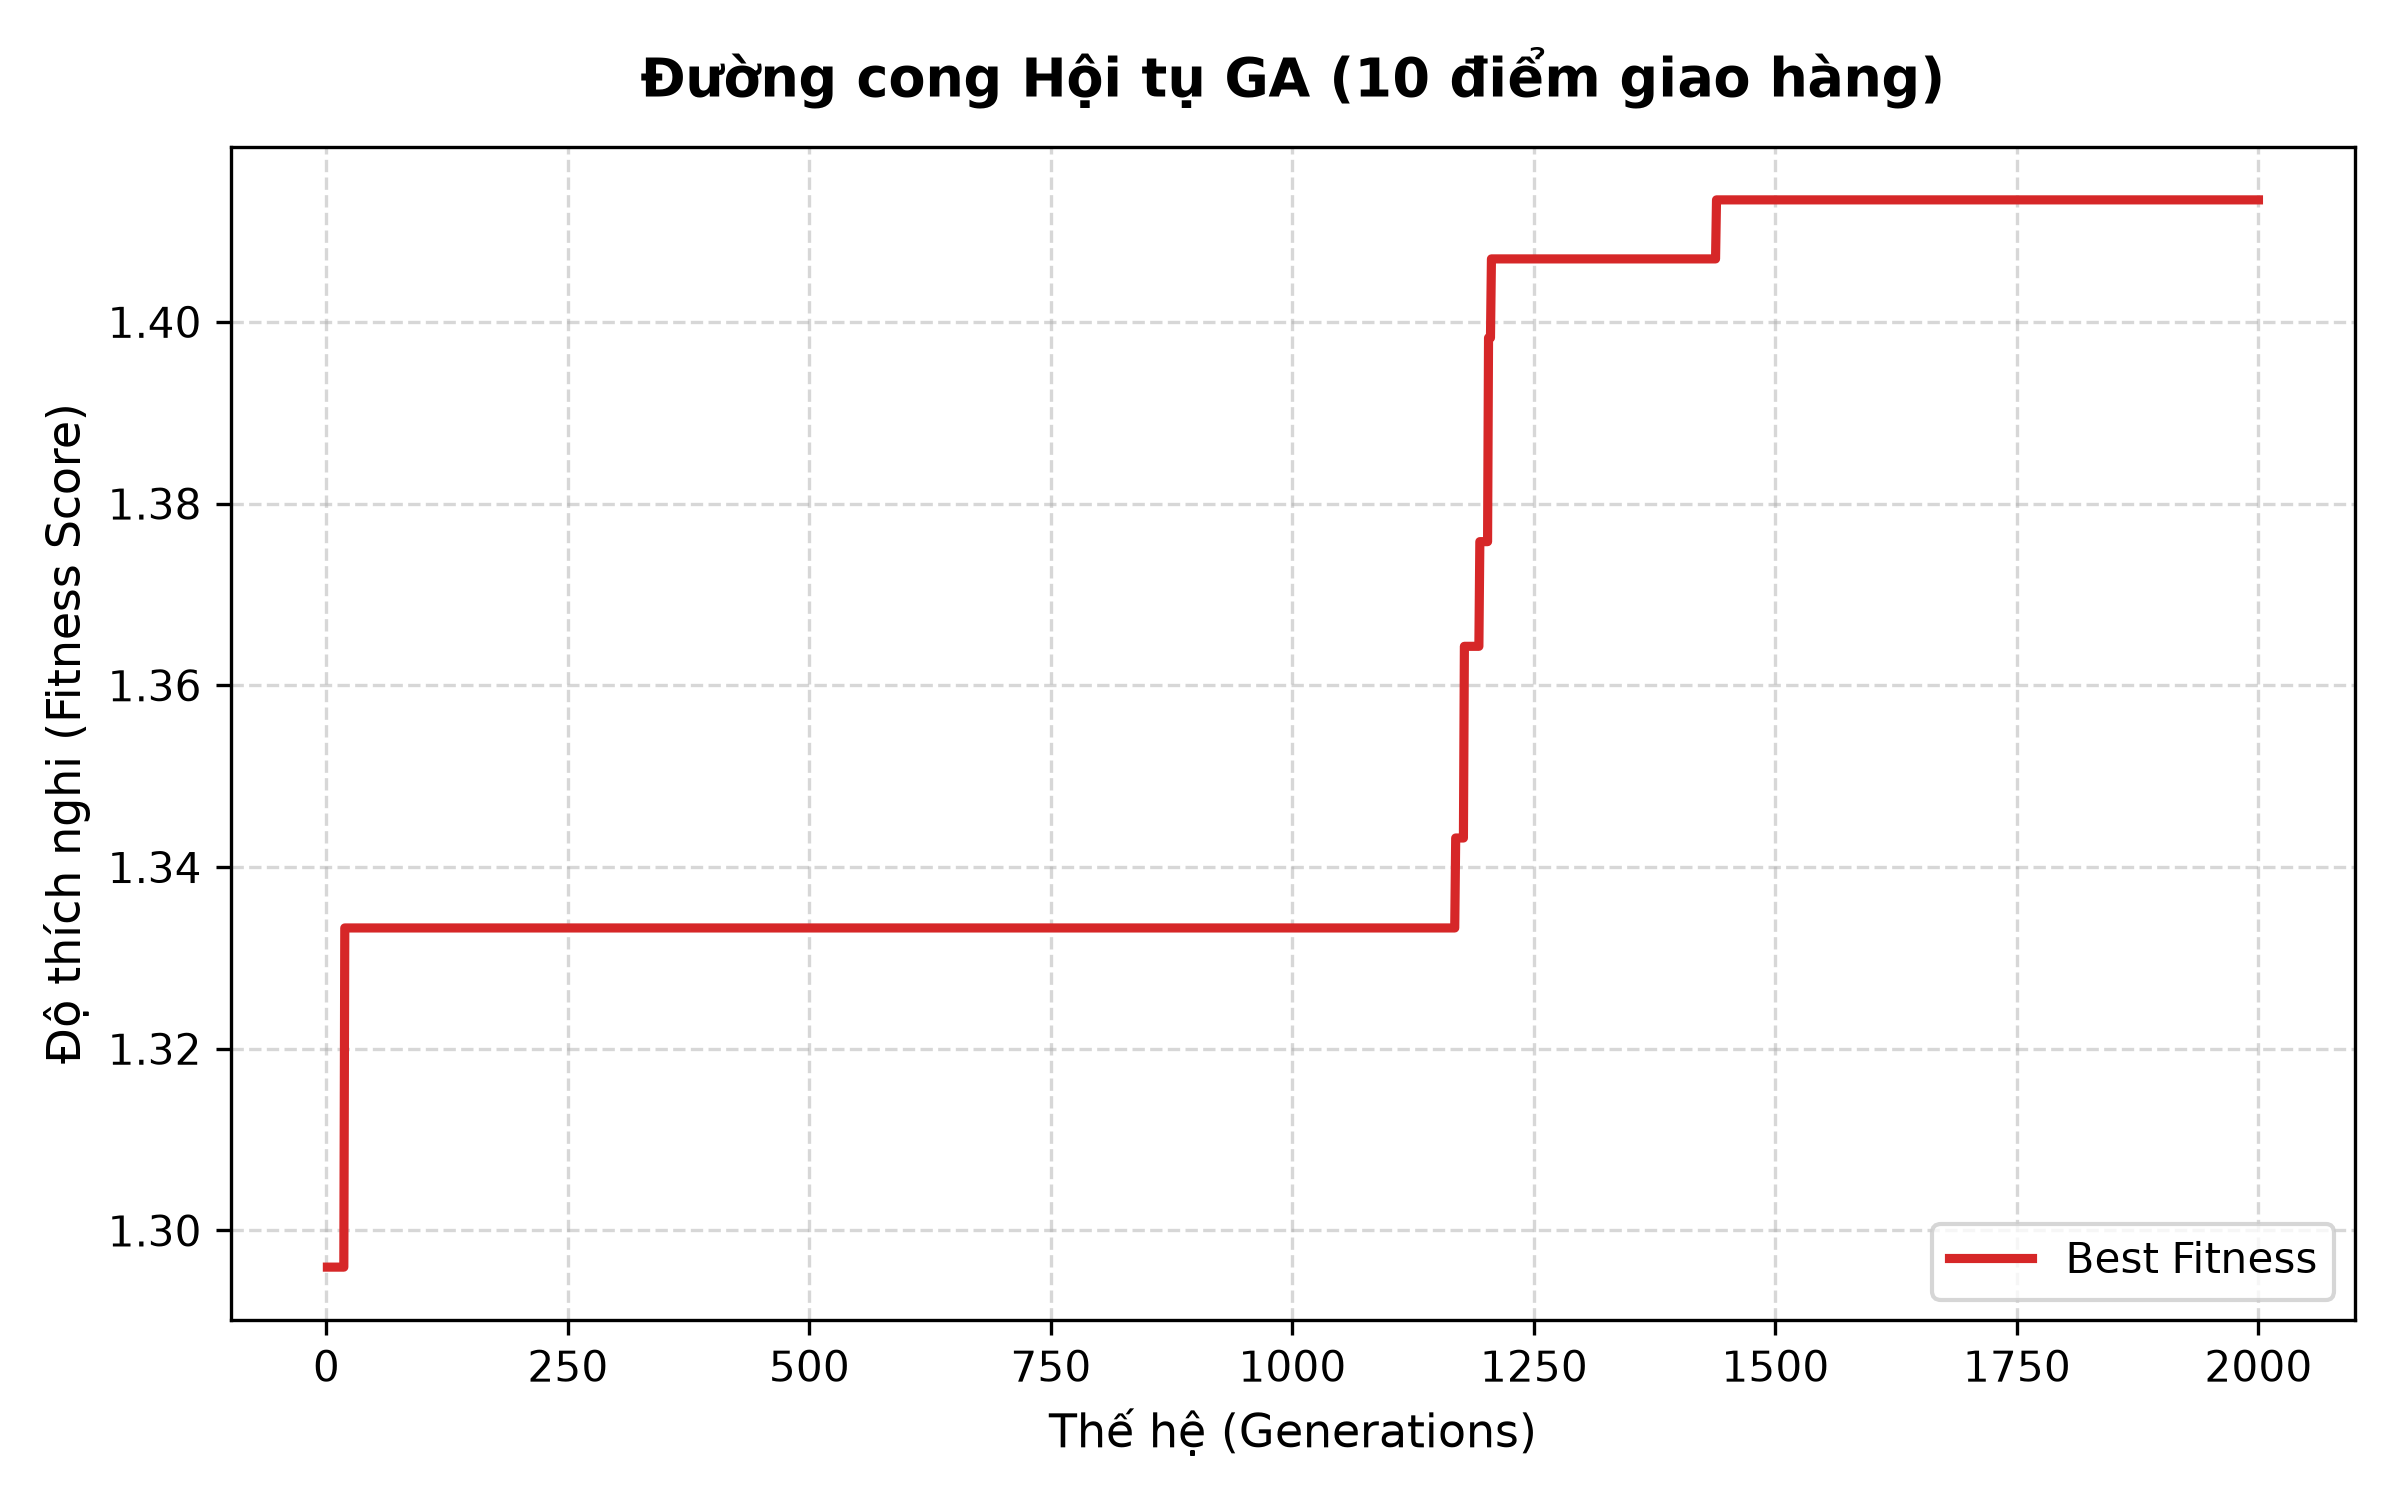
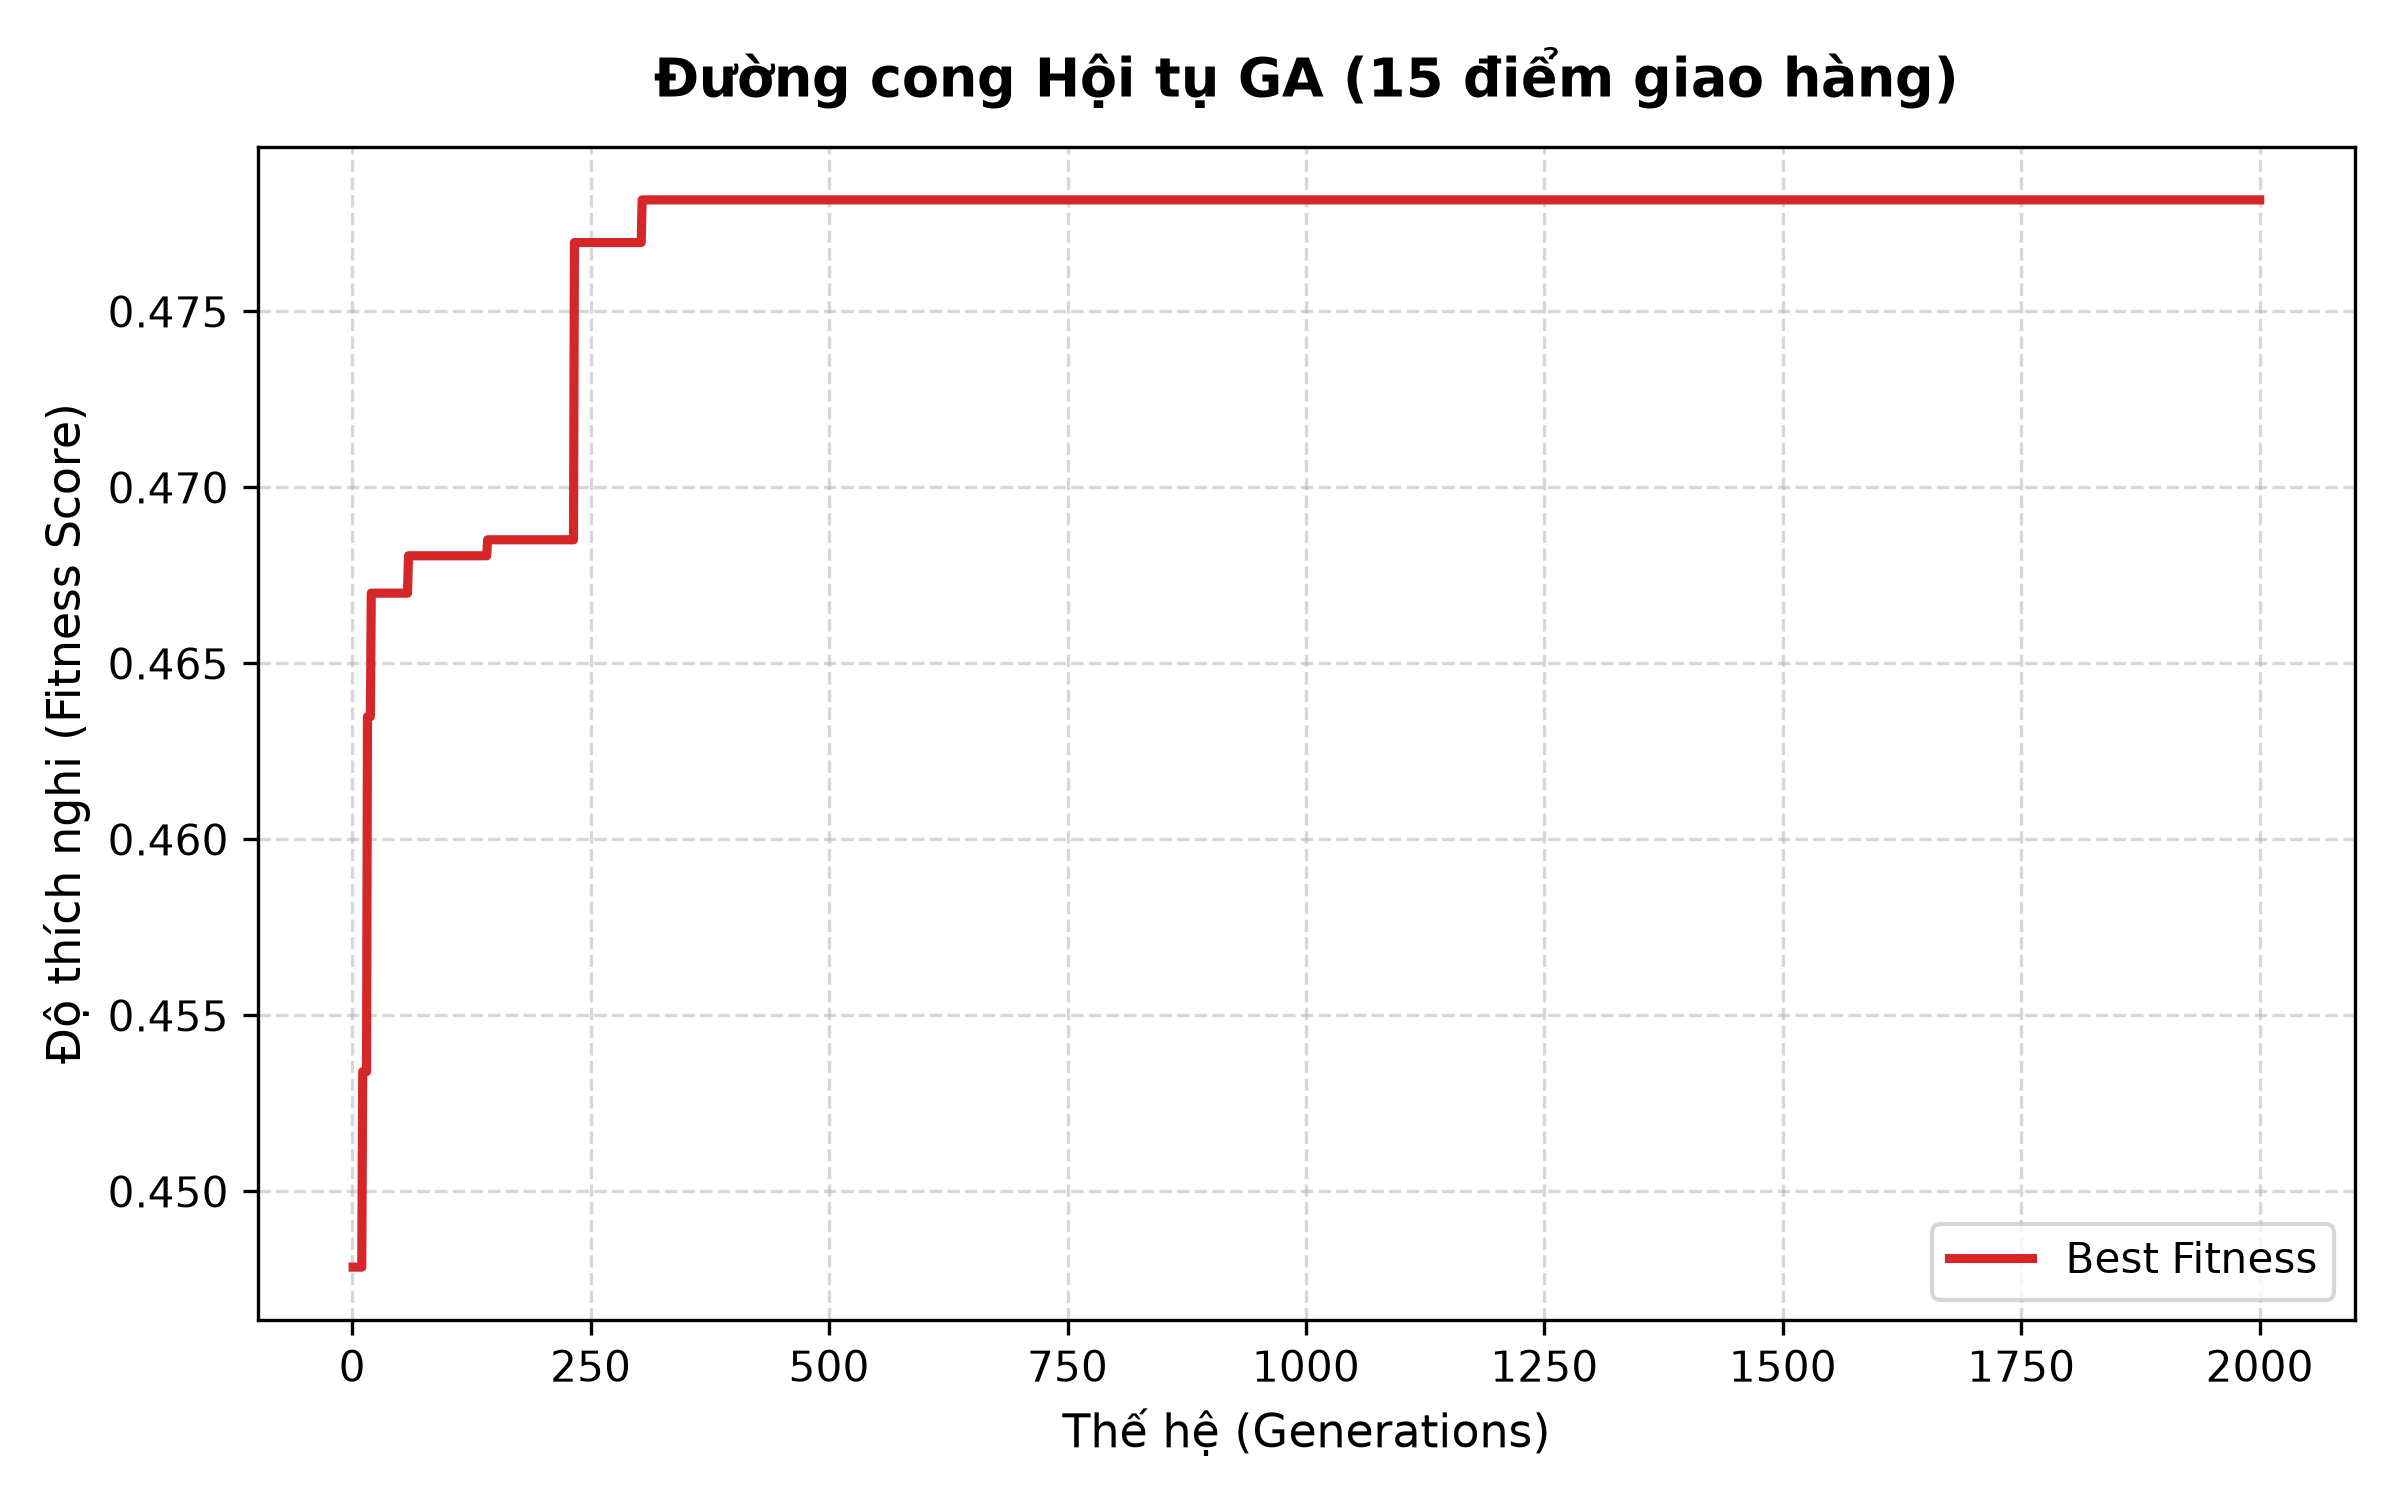
Optimise Energy Manager

diff --git a/src/algorithms/energy_manager.py b/src/algorithms/energy_manager.py
@@ -79,10 +79,11 @@ class EnergyManager:
         self,
         route: List[int],
         dist_matrix: Any,
-        nodes: Dict[int, Dict[str, Any]]
+        nodes: Dict[int, Dict[str, Any]],
+        detailed: bool = False
     ) -> Tuple[float, bool, List[Dict[str, Any]]]:
         """
-        Tính tổng năng lượng tiêu thụ và trả về chi tiết từng chặng bay để làm báo cáo thực nghiệm.
+        Tính tổng năng lượng tiêu thụ; chỉ trả chi tiết từng chặng khi detailed=True.
         Mỗi phần tử trong danh sách chứa: from, to, distance, cargo, segment_energy,
         battery_before, battery_after_segment, charging_time, battery_after_charge.
         """
@@ -125,19 +126,20 @@ class EnergyManager:
             if battery_after_segment < 0:
                 is_feasible = False
 
-            details.append({
-                "from": u,
-                "to": v,
-                "distance": dist,
-                "payload": segment_payload,
-                "segment_energy": seg_energy,
-                "battery_before": battery_before,
-                "battery_after_segment": battery_after_segment,
-                "charging_time": charge_time,
-                "battery_after_charge": current_battery,
-                "node_type": node_v.get("type"),
-                "node_id": v,
-            })
+            if detailed:
+                details.append({
+                    "from": u,
+                    "to": v,
+                    "distance": dist,
+                    "payload": segment_payload,
+                    "segment_energy": seg_energy,
+                    "battery_before": battery_before,
+                    "battery_after_segment": battery_after_segment,
+                    "charging_time": charge_time,
+                    "battery_after_charge": current_battery,
+                    "node_type": node_v.get("type"),
+                    "node_id": v,
+                })
 
         return total_energy, is_feasible, details
 
@@ -169,11 +171,11 @@ class EnergyManager:
         if not route or len(route) <= 2:
             return route[:], 0.0, True
 
-        charging_stations = [k for k, v in nodes.items() if v.get("type") == "charging"]
-        if not charging_stations:
-            # Không có trạm sạc trên bản đồ -> giữ nguyên và kiểm tra khả thi
-            tot_e, feas = self.calculate_route_energy(route, dist_matrix, nodes)
-            return route[:], tot_e, feas
+        charging_stations = [0] # Coi depot (chỉ số 0) là một trạm sạc
+        for node_id in range(len(nodes) - 1, 0, -1): # Các trạm sạc luôn ở cuối list. Vì thế, tìm kiếm ngược đến node đầu tiên không phải thuộc dạng charging
+            if nodes.get(node_id, {}).get("type") != "charging":
+                break
+            charging_stations.append(node_id)
 
         current_cargo = sum(nodes.get(nid, {}).get("demand", 0.0) for nid in route if nodes.get(nid, {}).get("type") == "delivery")
         current_battery = self.battery_capacity

diff --git a/tests/test_energy_manager.py b/tests/test_energy_manager.py
@@ -82,7 +82,10 @@ class TestEnergyManager(unittest.TestCase):
     def test_detailed_energy_breakdown_and_charging_time(self):
         """Kiểm tra báo cáo chi tiết từng chặng bay và thời gian sạc tại trạm."""
         manager = EnergyManager(battery_capacity=100.0, charging_rate=20.0)
-        total_energy, is_valid, details = manager.calculate_route_energy_details([0, 1, 2, 0], self.distances, self.nodes)
+        route = [0, 1, 2, 0]
+        total_energy, is_valid, details = manager.calculate_route_energy_details(
+            route, self.distances, self.nodes, detailed=True
+        )
 
         self.assertTrue(is_valid)
         self.assertAlmostEqual(total_energy, 40.0 * (1.0 + 0.15 * 1.0) + 10.0 + 10.0, places=2)
@@ -92,6 +95,13 @@ class TestEnergyManager(unittest.TestCase):
         self.assertEqual(details[1]["node_type"], "charging")
         self.assertAlmostEqual(details[1]["charging_time"], 20.0, places=2)
         self.assertAlmostEqual(manager.estimate_charging_duration(54.0, self.nodes[2]), 20.0, places=2)
+
+        energy_only, is_feasible, no_details = manager.calculate_route_energy_details(
+            route, self.distances, self.nodes
+        )
+        self.assertEqual(energy_only, total_energy)
+        self.assertEqual(is_feasible, is_valid)
+        self.assertEqual(no_details, [])
 
 
 if __name__ == "__main__":

diff --git a/src/utils/benchmark_evaluator.py b/src/utils/benchmark_evaluator.py
@@ -89,7 +89,9 @@ class BenchmarkEvaluator:
         for route in routes:
             if not route:
                 continue
-            route_energy, _, details = energy_manager.calculate_route_energy_details(route, dist_matrix, nodes)
+            route_energy, _, details = energy_manager.calculate_route_energy_details(
+                route, dist_matrix, nodes, detailed=True
+            )
             total_energy += route_energy
             for d in details:
                 if d.get("charging_time", 0.0) > 0:
@@ -461,4 +463,3 @@ class BenchmarkEvaluator:
             f.write(f"- **Thời gian tính toán & Khả năng mở rộng:** Mặc dù thuật toán GA có thời gian tính toán lớn hơn Greedy, toàn bộ thời gian thực thi vẫn nằm trong ngưỡng vài giây (real-time planning), đáp ứng hoàn hảo yêu cầu vận hành đô thị thông minh.\n")
             if speedup_res:
                 f.write(f"- **Hiệu quả Song song hóa:** Cài đặt đa luồng `ThreadPoolExecutor` giúp tăng tốc tính ma trận khoảng cách $A^*$, giúp giảm đáng kể thời gian tiền xử lý không gian bản đồ khi số lượng điểm giao và vùng cấm bay tăng cao.\n")
-

diff --git a/src/main.py b/src/main.py
@@ -143,7 +143,7 @@ def main():
 
     # 1. Khởi tạo Pipeline tích hợp
     pipeline = UAVRoutingPipeline(
-        grid_size=(60, 60),
+        grid_size=(100, 100),
         num_drones=3,
         drone_capacity=5.0,
         drone_speed=10.0,
